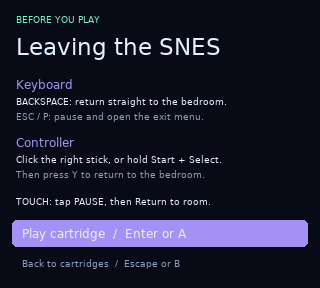
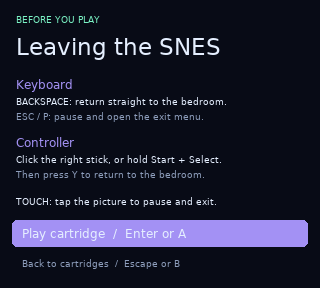
Preserve full-color SNES output and maximize integer window scaling

Changed region(s): [[0.2188, 0.6875, 0.6875, 0.7188]]

diff --git a/tools/package_release.py b/tools/package_release.py
@@ -8,7 +8,7 @@ def main():
     output=dist/f'Bedroom-SNES-v{version}.zip'
     files=['manifest.json','main.lua','screen.lua','README.md','LICENSE','THIRD_PARTY.txt','roms/bedroom-demo.sfc','roms/README.txt']
     files+=sorted(str(p.relative_to(ROOT)).replace('\\','/') for p in (ROOT/'core').glob('*.lua'))
-    files+=['docs/library.png','docs/playing.png','docs/instructions.png']
+    files+=['docs/library.png','docs/playing.png','docs/instructions.png','docs/integer-presentation.png']
     with zipfile.ZipFile(output,'w',compression=zipfile.ZIP_DEFLATED,compresslevel=9) as archive:
         for name in files:
             info=zipfile.ZipInfo('bedroom_snes/'+name,date_time=(2026,10,22,0,0,0))

diff --git a/README.md b/README.md
@@ -2,18 +2,18 @@
 
 A **pure-Lua SNES emulator inside Gen1Recomp**, opened by interacting with the SNES in the player's upstairs bedroom in Pallet Town. Supports Pokémon Red, Blue, and Yellow.
 
-**v0.2.0 is an experimental preview.** The included original homebrew cartridge boots and responds to controls. Speed and game compatibility vary; this is not a full-speed, broadly compatible replacement for a standalone emulator. No commercial SNES ROMs are included.
+**v0.2.1 is an experimental preview.** The included original homebrew cartridge boots and responds to controls. Speed and game compatibility vary; this is not a full-speed, broadly compatible replacement for a standalone emulator. No commercial SNES ROMs are included.
 
 ![Bedroom SNES cartridge menu](docs/library.png)
 ![Original homebrew running inside the emulator](docs/playing.png)
 
 ## Install and play
 
-1. Download `Bedroom-SNES-v0.2.0.zip` from [Releases](https://github.com/Bentley734/Bedroom-SNES/releases/latest).
+1. Download `Bedroom-SNES-v0.2.1.zip` from [Releases](https://github.com/Bentley734/Bedroom-SNES/releases/latest).
 2. Import it using Gen1Recomp's mod manager and enable **Bedroom SNES** for Red, Blue, or Yellow. Gen1Recomp **0.3.54 or newer** is required; native loader/graphics tests cover 0.3.54 and 0.3.95.
 3. Go upstairs in the player's house in Pallet Town and interact with the SNES. Select **bedroom-demo** to try the included cartridge.
 4. Read the exit instructions shown **before every cartridge launch**, release the launch button, then confirm to play.
-5. Press **Backspace** to return straight to the bedroom, or **Escape/P** to open the pause menu. A controller or the on-screen controls also work.
+5. Press **Backspace** to return straight to the bedroom, or **Escape/P** to open the pause menu. Controller pause and exit controls also work.
 
 ![Exit instructions shown before launching](docs/instructions.png)
 
@@ -38,7 +38,7 @@ SNES keyboard controls apply while a cartridge is playing; the normal Pokémon c
 | Pause | Escape / P | Right-stick click, or hold Start + Select |
 | Return straight to bedroom | Backspace | Pause, then Y |
 
-The on-screen pad provides all twelve SNES controls. Tap **PAUSE** at the top to open the pause menu. In that menu: Enter/A resumes, Q/B opens the cartridge menu, Backspace/Y returns to the bedroom, R resets the cartridge, and M toggles sound. The demo uses the D-pad to scroll its picture and Start to recenter it.
+Gameplay has no on-screen controls or HUD. Tap/click the picture to open the pause menu. Use a keyboard or controller to play. In that menu: Enter/A resumes, Q/B opens the cartridge menu, Backspace/Y returns to the bedroom, R resets the cartridge, and M toggles sound. The demo uses the D-pad to scroll its picture and Start to recenter it.
 
 If a session stays below **20 emulated FPS** for three consecutive two-second measurement windows after the warm-up windows, the player comments on returning to the bedroom: **“I think there's something wrong with my SNES...”** Pauses and launch/loading time are excluded. Normal performance and brief slowdowns do not trigger the line.
 
@@ -58,7 +58,7 @@ Battery-backed cartridge RAM saves automatically about every 30 seconds of activ
 
 `tests/run.py` covers original-demo boot/input, cartridge validation, SRAM, 1,776 PPU scanlines (including windows, subscreen math and size-one mosaic), 1,664 sprite scanlines, 60 scheduler frames, 1,728 partial scheduler/state comparisons, frame pacing, and the complete 534-sample stereo audio queue. `tests/differential.py` checks both reference and optimized CPU/SPC dispatch against all 2,048 opcode/flag cases, six full machine/frame snapshots and 512 audible stereo DSP samples. Private-ROM runs render every frame and match 21 Mario World, 23 All-Stars and 18 Zombies checkpoints for image hashes, CPU/SPC positions and audio peaks. These establish agreement with SnesJs, not physical-hardware accuracy.
 
-`tests/love_main.lua` exercises the production mod loader and sandbox, bedroom MapScripts, native graphics/audio, raw input capture, all twelve touch control routing, pause/resume, repeat entry/exit, storage, save-failure handling and restoration of normal input/touch controls. Native fixtures do not launch a user's save file.
+`tests/love_main.lua` exercises the production mod loader and sandbox, bedroom MapScripts, native graphics/audio, raw input capture, tap-to-pause and resized pointer routing, pause/resume, repeat entry/exit, storage, save-failure handling and restoration of normal input/touch controls. Native fixtures do not launch a user's save file.
 
 Developer dependencies: Python with `lupa` (LuaJIT backend), Node.js for the differential oracle, and a LÖVE 11.x runtime plus Gen1Recomp sources/test fixtures for the native test. `tests/prepare_love.py` documents this workspace's isolated probe setup. Run from the repository root:
 
@@ -83,3 +83,9 @@ See [THIRD_PARTY.txt](THIRD_PARTY.txt) and [LICENSE](LICENSE). The original demo
 The optimized Mode 1 renderer packs tile bitplanes once per tile row, resolves background/sprite priority with reusable buffers, and supports window masks, clipping, fixed-color and main/subscreen math. Size-one mosaic stays on this path because it changes no pixels. Other modes, larger mosaic and hires use the reference renderer. Palette conversion is refreshed every scanline; sprite overflow and interlace behavior remain reference-compatible. No Snes9x-Z code was copied; batching and redundant-work removal inspired the optimization. The mod remains single-threaded with no new permissions.
 
 The SNES state opts out of Pokemon speed multipliers. Audio queues all 534 stereo samples per 60 Hz frame and buffers two frames before playback to absorb ordinary timing jitter. Low-performance devices can still stutter; this does not add the upstream core's missing DSP echo.
+
+## Full-color window presentation
+
+v0.2.1 presents the cartridge and menus through the engine composition hook, preserving their RGB colors independently of Pokemon palettes and post-processing. Gameplay uses the largest centered integer scale that fits the window in physical pixels, with nearest-neighbor filtering and black borders. Standard 256-pixel SNES output, horizontal hires and overscan keep their source dimensions. Very small windows that cannot fit even 1x use a reduced fit. There is no on-screen pad, FPS label or pause label. Escape/P pauses, Backspace exits immediately, and tapping/clicking opens the pause menu. The launch instructions still explain exit controls.
+
+Native presentation tests run the real Renderer:endFrame path with forced palettes and an enabled shader path. They check unchanged cartridge RGB, identical menu colors across palette modes, three window sizes, DPI-aware integer placement and resized pause-menu input.

diff --git a/RELEASE_NOTES.md b/RELEASE_NOTES.md
@@ -1,19 +1,10 @@
-Bedroom SNES v0.2.0 reaches 60 FPS in the tested Super Mario World first-level scene while retaining the pure-Lua SnesJs core.
+Bedroom SNES v0.2.1 fixes the recolored SNES picture and menus, removes the on-screen gameplay controls/HUD, and scales the cartridge to the largest integer size that fits its window.
 
-| Supplied cartridge | Native paced gameplay result |
-|---|---|
-| Super Mario World (USA) | 60.0 FPS: 900 frames in 15.0006 seconds |
-| Super Mario All-Stars (USA), SMB1 World 1-1 | 58.4 FPS: 876 frames in 15.0080 seconds |
-| Yoshi's Island (USA, Rev 1) | Unsupported: requires Super FX |
+- Full RGB presentation bypasses Pokemon palette remapping and the final post-processing chain while this mod owns the screen.
+- Centered, nearest-neighbor integer scaling uses physical window pixels, including DPI scaling, horizontal hires and overscan. Black borders fill unused space.
+- Keyboard/controller controls remain available. Tap/click the picture or press Escape/P to pause; Backspace returns directly to the bedroom. Launch instructions explain how to exit.
+- Pause-menu hit testing follows the resized presentation.
 
-Movement, jumping, audio, graphics and exit were tested. These are short Windows x64 first-level measurements, not full-game certification. The emulator still inherits SnesJs' missing DSP echo, approximate timing and other accuracy limits. Other platforms remain unverified.
+Validated through the real Gen1Recomp renderer with forced palette zones and an enabled shader path, three window sizes, DPI placement, unchanged RGB samples, and matching menu colors. Native sandbox, launch, input, storage and exit tests pass for Red/Blue/Yellow on engines 0.3.54 and 0.3.95. The SNES emulation core is unchanged from v0.2.0.
 
-Changes:
-- Faster native-Lua clock/CPU/SPC dispatch, allocation-free address returns, and event-bounded CPU/DMA/HDMA countdowns.
-- Packed background and sprite decoding; optimized Mode 1 windows, clipping and subscreen color math. Size-one mosaic no longer falls back to slow rendering.
-- Bounded catch-up pacing, a fixed SNES clock independent of Pokemon speed settings, and all 534 stereo samples queued per frame with a small jitter buffer.
-- Existing launch instructions, Backspace/controller/touch exit controls and slow-performance bedroom dialogue remain available.
-
-Validation: 1,776 PPU and 1,664 sprite scanlines, 1,728 partial scheduler comparisons, both dispatch paths across 2,048 CPU/SPC opcode/flag cases, six full-frame snapshots and 512 stereo DSP samples. All 21 Mario World, 23 All-Stars and 18 Zombies reference checkpoints match. Production sandbox/native tests pass for Red, Blue and Yellow on Gen1Recomp 0.3.54 and 0.3.95.
-
-Only the original MIT-licensed demo cartridge is bundled. Supply your own ROMs. No native emulator, extra permissions or Snes9x-Z code is included. The checksum asset verifies the release ZIP.
+Only the original MIT demo cartridge is bundled; supply your own ROMs.
